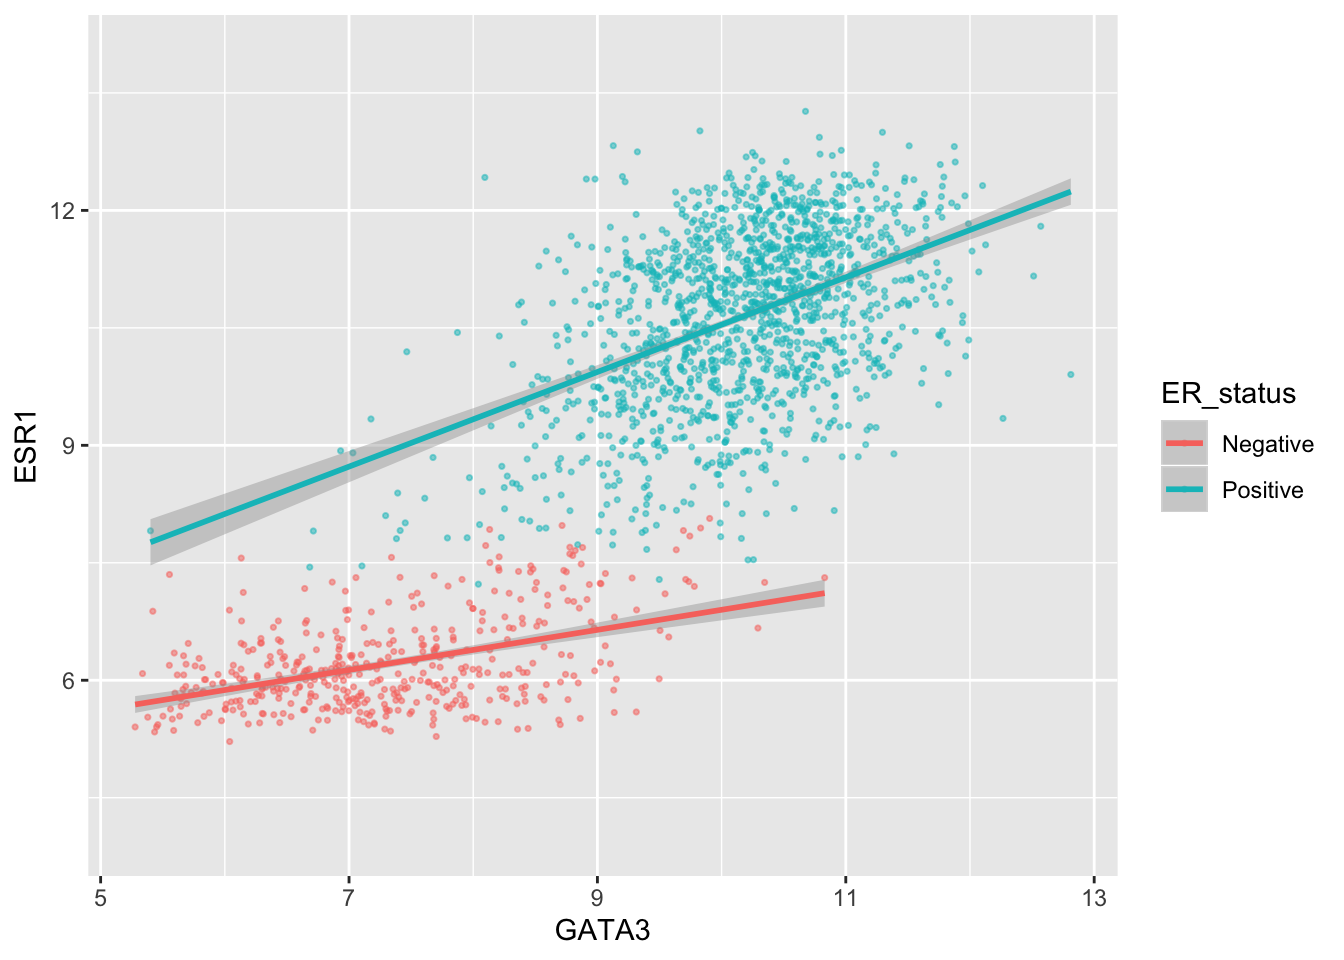
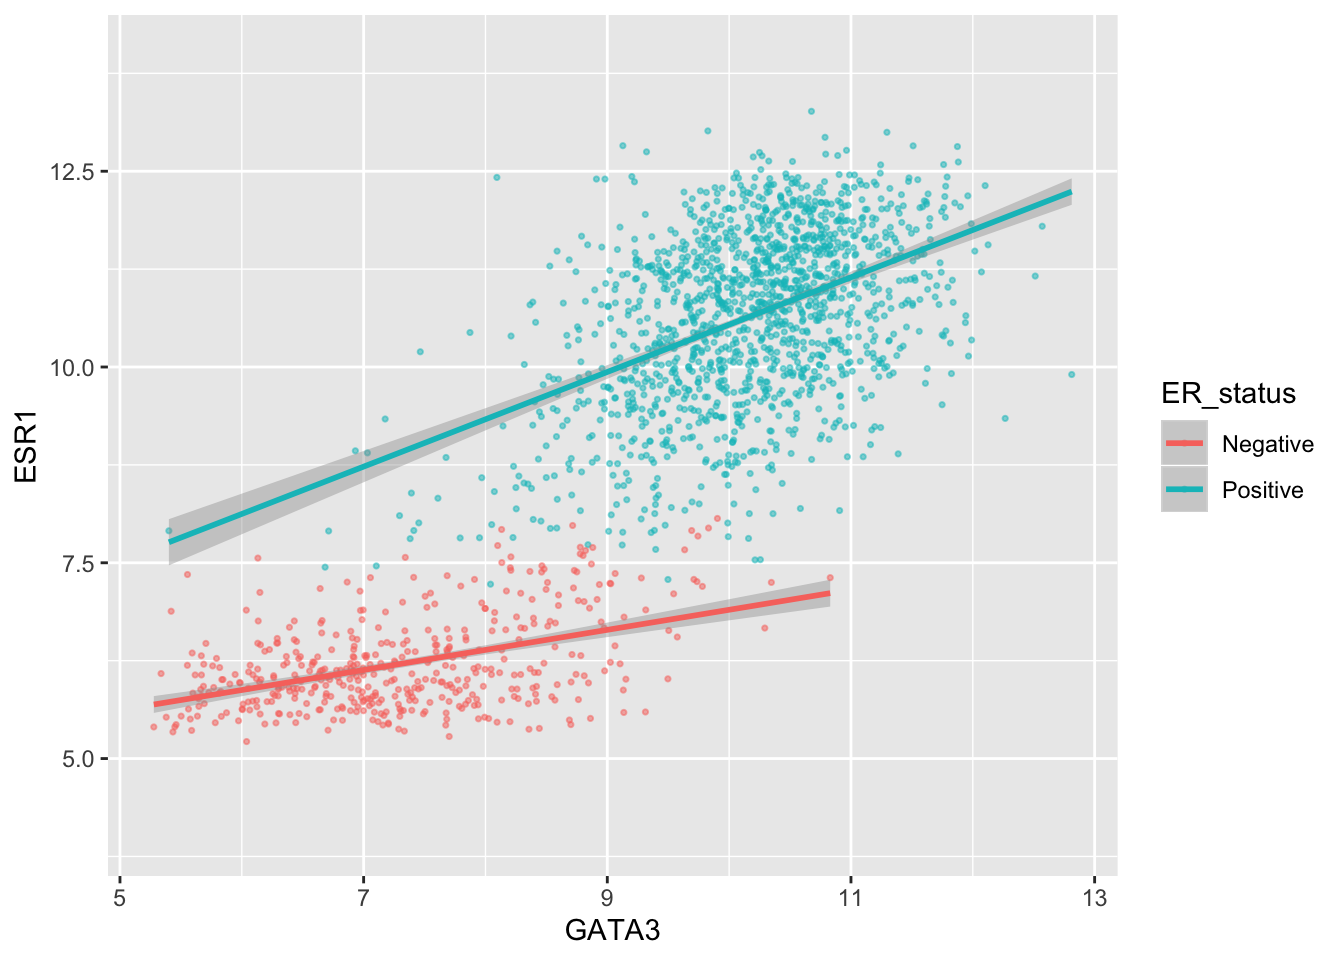
Fixed typos, some rewording in grouping sections.

diff --git a/docs/week5.html b/docs/week5.html
@@ -453,7 +453,7 @@ metabric</code></pre>
 ##   `mean(ESR1)`
 ##          &lt;dbl&gt;
 ## 1         9.61</code></pre>
-<p>While the <code>summarise()</code> function is useful on its own, it becomes really powerful when applied to groups of observations within a dataset. For example, we might be more interested in the mean ESR1 expression value in ER positive and ER negative tumours. We could take each of these groups in turn, filter the data frame to only contain the rows for a given ER status, then apply the <code>summarise()</code> function to compute the mean expression, but that would be somewhat cumbersome. Even more so if we chose to do this for a categorical variable with more than two states, e.g. for each of the integrative clusters. Fortunately, the <strong><code>group_by()</code></strong> function allows this to be done in one simple step.</p>
+<p>While the <code>summarise()</code> function is useful on its own, it becomes really powerful when applied to groups of observations within a dataset. For example, we might be more interested in the mean ESR1 expression calculated separately for ER positive and ER negative tumours. We could take each group in turn, filter the data frame to contain only the rows for a given ER status, then apply the <code>summarise()</code> function to compute the mean expression, but that would be somewhat cumbersome. Even more so if we chose to do this for a categorical variable with more than two states, e.g. for each of the integrative clusters. Fortunately, the <strong><code>group_by()</code></strong> function allows this to be done in one simple step.</p>
 <pre class="r"><code>metabric %&gt;%
   group_by(ER_status) %&gt;%
   summarise(mean(ESR1))</code></pre>
@@ -463,7 +463,9 @@ metabric</code></pre>
 ## 1 Negative          6.21
 ## 2 Positive         10.6</code></pre>
 <p>We get an additional column in our output for the categorical variable, <code>ER_status</code>, and a row for each category.</p>
-<p>We should expect this result since ER status is all about whether the cancer cells have estrogen receptors or not, which presumably must be related to whether the ESR1 gene is expressed at a high or a low level. Note that the expression values are on a log<sub>2</sub> scale so on average ER-positive breast cancers express ESR1 at around 20 times the level of ER-negative breast cancers.</p>
+<p>Incidentally, we should expect this result of ER-positive tumours having a higher expression of ESR1 on average than ER-negative tumours. Simple summaries like this are a good way of checking that what we think we know actually holds true in the data we’re looking at. Note that the expression values are on a log<sub>2</sub>scale so ER-positive breast cancers express ESR1 at a level that is approximately 20 times greater, on average, than that of ER-negative tumours.</p>
+<pre class="r"><code>2 ** (10.64 - 6.21)  # equivalent to (2 ** 10.64) / (2 ** 6.21)</code></pre>
+<pre><code>## [1] 21.55574</code></pre>
 <p>Let’s have a look at how ESR1 expression varies between the integrative cluster subtypes defined by the METABRIC study.</p>
 <pre class="r"><code>metabric %&gt;%
   group_by(Integrative_cluster) %&gt;%
@@ -482,7 +484,7 @@ metabric</code></pre>
 ##  9 7                   10.9 
 ## 10 8                   11.1 
 ## 11 9                    9.96</code></pre>
-<p>As before we can summarize multiple observations, e.g. the mean expression for other genes of interest, this time splitting the observations on the PAM50 classification.</p>
+<p>As before we can summarize multiple observations, e.g. the mean expression for other genes of interest, this time using the PAM50 classification to define the groups.</p>
 <pre class="r"><code>metabric %&gt;%
   group_by(PAM50) %&gt;%
   summarise_at(vars(ESR1, PGR, ERBB2), mean)</code></pre>
@@ -517,7 +519,7 @@ metabric</code></pre>
 ## 11 NC          Negative        10.9 
 ## 12 Normal      Negative         9.68
 ## 13 Normal      Positive         7.77</code></pre>
-<p>It can be quite useful to know how many observations are within each group. We can use a special function, <strong><code>n()</code></strong>, that just counts the number of rows rather than computing a summary value from one of the columns.</p>
+<p>It can be quite useful to know how many observations are within each group. We can use a special function, <strong><code>n()</code></strong>, that counts the number of rows rather than computing a summary value from one of the columns.</p>
 <pre class="r"><code>metabric %&gt;%
   group_by(PAM50, HER2_status) %&gt;%
   summarise(N = n(), ESR1_mean = mean(ESR1))</code></pre>
@@ -553,7 +555,7 @@ metabric</code></pre>
 ## 5 LumB          461
 ## 6 NC              6
 ## 7 Normal        140</code></pre>
-<p>This is much like the <code>table()</code> function we’ve used several times already to take a quick look at what values are contained in one of the columns in a data frame. They return different data structures however, with <code>count()</code> always returning a data frame (or tibble) that can then be used in subsequent steps in a ‘piped’ workflow including passing into <code>ggplot()</code> to create a graph.</p>
+<p>This is much like the <code>table()</code> function we’ve used several times already to take a quick look at what values are contained in one of the columns in a data frame. They return different data structures however, with <code>count()</code> always returning a data frame (or tibble) that can then be passed to subsequent steps in a ‘piped’ workflow.</p>
 <p>If we wanted to subdivide our categories by HER2 status, we can add this as an additional categorical variable just as we did with the previous <code>group_by()</code> examples.</p>
 <pre class="r"><code>count(metabric, PAM50, HER2_status)</code></pre>
 <pre><code>## # A tibble: 13 x 3
@@ -594,11 +596,11 @@ metabric</code></pre>
 <pre class="r"><code>metabric %&gt;%
   group_by(PAM50, HER2_status) %&gt;%
   summarize(Samples = n())</code></pre>
-<p>Summarizing with <code>n()</code> is useful when showing the number of observations in a group alongside a summary value, as we did earlier looking at the mean ESR1 expression within specified groups, so you can see if you’re trying to draw conclusions from only a few data points.</p>
+<p>Summarizing with <code>n()</code> is useful when showing the number of observations in a group alongside a summary value, as we did earlier looking at the mean ESR1 expression within specified groups; it allows you to see if you’re drawing conclusions from only a few data points.</p>
 </div>
 <div id="missing-values" class="section level2">
 <h2>Missing values</h2>
-<p>Many summarization functions return <code>NA</code> if any of the values are missing, i.e. are <code>NA</code>. As an example, we’ll compute the average size of ER-negative and ER-positive tumours.</p>
+<p>Many summarization functions return <code>NA</code> if any of the values are missing, i.e. the column contains <code>NA</code> values. As an example, we’ll compute the average size of ER-negative and ER-positive tumours.</p>
 <pre class="r"><code>metabric %&gt;%
   group_by(ER_status) %&gt;%
   summarize(N = n(), `Average tumour size` = mean(Tumour_size))</code></pre>
@@ -607,7 +609,7 @@ metabric</code></pre>
 ##   &lt;chr&gt;     &lt;int&gt;                 &lt;dbl&gt;
 ## 1 Negative    445                    NA
 ## 2 Positive   1459                    NA</code></pre>
-<p>The <code>mean()</code> function and many similar summarization functions have an <code>na.rm</code> argument that can be set to <code>TRUE</code> to exclude those missing values from the calculation.</p>
+<p>The <code>mean()</code> function, along with many similar summarization functions, has an <code>na.rm</code> argument that can be set to <code>TRUE</code> to exclude those missing values from the calculation.</p>
 <pre class="r"><code>metabric %&gt;%
   group_by(ER_status) %&gt;%
   summarize(N = n(), `Average tumour size` = mean(Tumour_size, na.rm = TRUE))</code></pre>
@@ -629,8 +631,8 @@ metabric</code></pre>
 </div>
 <div id="counts-and-proportions" class="section level2">
 <h2>Counts and proportions</h2>
-<p>It may seem a bit odd to think about computing a summary for a logical variable but this actually turns out to be quite a useful thing to do, particularly when using <code>sum()</code> to count the number of <code>TRUE</code> values and <code>mean()</code> to get the proportion of <code>TRUE</code> values.</p>
-<p>Following on from the previous example we could add a column to our summary of average tumour size for ER-positive and ER-negative patients for the number of missing values.</p>
+<p>The <code>sum()</code> and <code>mean()</code> summarization functions are often used with logical values. It might seem surprising to compute a summary for a logical variable but but this turns out to be quite a useful thing to do, for counting the number of <code>TRUE</code> values or obtaining the proportion of values that are <code>TRUE</code>.</p>
+<p>Following on from the previous example we could add a column to our summary of average tumour size for ER-positive and ER-negative patients that contains the number of missing values.</p>
 <pre class="r"><code>metabric %&gt;%
   group_by(ER_status) %&gt;%
   summarize(N = n(), Missing = sum(is.na(Tumour_size)), `Average tumour size` = mean(Tumour_size, na.rm = TRUE))</code></pre>
@@ -649,7 +651,7 @@ is.na(test_vector)</code></pre>
 <p>Similarly, <code>mean()</code> will compute the proportion of the values that are <code>TRUE</code>.</p>
 <pre class="r"><code>mean(is.na(test_vector))</code></pre>
 <pre><code>## [1] 0.25</code></pre>
-<p>So, let’s compute the number and proportion of samples that do not have a recorded tumour size in each of the ER-negative and ER-positive groups.</p>
+<p>So let’s calculate the number and proportion of samples that do not have a recorded tumour size in each of the ER-negative and ER-positive groups.</p>
 <pre class="r"><code>metabric %&gt;%
   group_by(ER_status) %&gt;%
   summarize(N = n(), `Missing tumour size` = sum(is.na(Tumour_size)), `Proportion missing` = mean(is.na(Tumour_size)))</code></pre>
@@ -658,7 +660,7 @@ is.na(test_vector)</code></pre>
 ##   &lt;chr&gt;     &lt;int&gt;                 &lt;int&gt;                &lt;dbl&gt;
 ## 1 Negative    445                     7              0.0157 
 ## 2 Positive   1459                    13              0.00891</code></pre>
-<p>We can use <code>sum()</code> and <code>mean()</code> on any condition that returns a logical vector. We could, for example, find the number and proportion of patients that survived longer than 10 years (120 months) in each of the ER-negative and ER-positive groups.</p>
+<p>We can use <code>sum()</code> and <code>mean()</code> for any condition that returns a logical vector. We could, for example, find the number and proportion of patients that survived longer than 10 years (120 months) in each of the ER-negative and ER-positive groups.</p>
 <pre class="r"><code>metabric %&gt;%
   filter(Survival_status == &quot;DECEASED&quot;) %&gt;%
   group_by(ER_status) %&gt;%
@@ -671,7 +673,7 @@ is.na(test_vector)</code></pre>
 </div>
 <div id="selecting-or-counting-distinct-things" class="section level2">
 <h2>Selecting or counting distinct things</h2>
-<p>There are occassion where we want to count the number of distinct values in a variable or a combination of variables. In this week’s assignment, we introduce another set of data from the METABRIC study which contains details of the mutations detected from targeted sequencing of a panel of 173 genes. We’ll read this data into R now as this provides a good example of having multiple observations on different rows for a single observational unit, in this case several mutations found in each tumour sample.</p>
+<p>There are occassions when we want to count the number of distinct values in a variable or a combination of variables. In this week’s assignment, we introduce another set of data from the METABRIC study which contains details of the mutations detected by targeted sequencing of a panel of 173 genes. We’ll read this data into R now as this provides a good example of having multiple observations in different rows for a single observational unit, in this case several mutations detected in each tumour sample.</p>
 <pre class="r"><code>mutations &lt;- read_csv(&quot;data/metabric_mutations.csv&quot;)
 select(mutations, Patient_ID, Chromosome, Position = Start_Position, Ref = Reference_Allele, Alt = Tumor_Seq_Allele1, Type = Variant_Type, Gene)</code></pre>
 <pre><code>## # A tibble: 17,272 x 7
@@ -688,7 +690,7 @@ select(mutations, Patient_ID, Chromosome, Position = Start_Position, Ref = Refer
 ##  9 MTS-T0059  11          62300529 T     T     SNP   AHNAK
 ## 10 MTS-T0059  15          74912475 G     G     SNP   CLK3 
 ## # … with 17,262 more rows</code></pre>
-<p>We can see from just these few rows that each patient sample has multiple mutations and sometimes has more than one mutation in the same gene, as can be seen in the first two rows.</p>
+<p>We can see from just these few rows that each patient sample has multiple mutations and sometimes there are more than one mutation in the same gene within a sample, as can be seen in the first two rows at the top of the table above.</p>
 <p>If we want to count the number of patients in which mutations were detected we could select the distinct set of patient identifiers using the <strong><code>distinct()</code></strong> function.</p>
 <pre class="r"><code>mutations %&gt;%
   distinct(Patient_ID) %&gt;%
@@ -711,7 +713,7 @@ select(mutations, Patient_ID, Chromosome, Position = Start_Position, Ref = Refer
 ##  9 MTS-T0059  CLK3 
 ## 10 MTS-T0059  TP53 
 ## # … with 15,646 more rows</code></pre>
-<p>This has reduced the number of rows as only distinct combinations of patient and gene are retained. This would be necessary if we wanted to count the number patients that have mutations in each gene rather than the number of mutations for that gene regardless of the patient.</p>
+<p>This has reduced the number of rows as only distinct combinations of patient and gene are retained. This would be necessary if we wanted to count the number of patients that have mutations in each gene rather than the number of mutations for that gene regardless of the patient.</p>
 <pre class="r"><code># number of mutations for each gene
 count(mutations, Gene)</code></pre>
 <pre><code>## # A tibble: 173 x 2
@@ -746,7 +748,7 @@ mutations %&gt;%
 ##  9 AKT2      23
 ## 10 ALK       95
 ## # … with 163 more rows</code></pre>
-<p>The differences in these two tables are for those genes that have more than mutation in one or more patient tumour samples.</p>
+<p>The genes that differ in these two tables are those that have more than one mutation within a patient tumour sample.</p>
 <hr />
 </div>
 </div>
@@ -1082,7 +1084,7 @@ plot</code></pre>
 <pre class="r"><code>ggplot(data = metabric, mapping = aes(x = GATA3, y = ESR1, colour = ER_status)) +
   geom_point(size = 0.6, alpha = 0.5) +
   geom_smooth(method = &quot;lm&quot;) +
-  scale_y_continuous(limits = c(4, 14))</code></pre>
+  scale_y_continuous(breaks = seq(5, 15, by = 2.5), limits = c(4, 14))</code></pre>
 <p><img src="week5_files/figure-html/scatter_plot_3-1.png" width="672" /></p>
 <p>We can change the minor breaks, e.g. to add more lines that act as guides. These are shown as thin white lines when using the default theme (we’ll take a look at alternative themes next week).</p>
 <pre class="r"><code>ggplot(data = metabric, mapping = aes(x = GATA3, y = ESR1, colour = ER_status)) +
